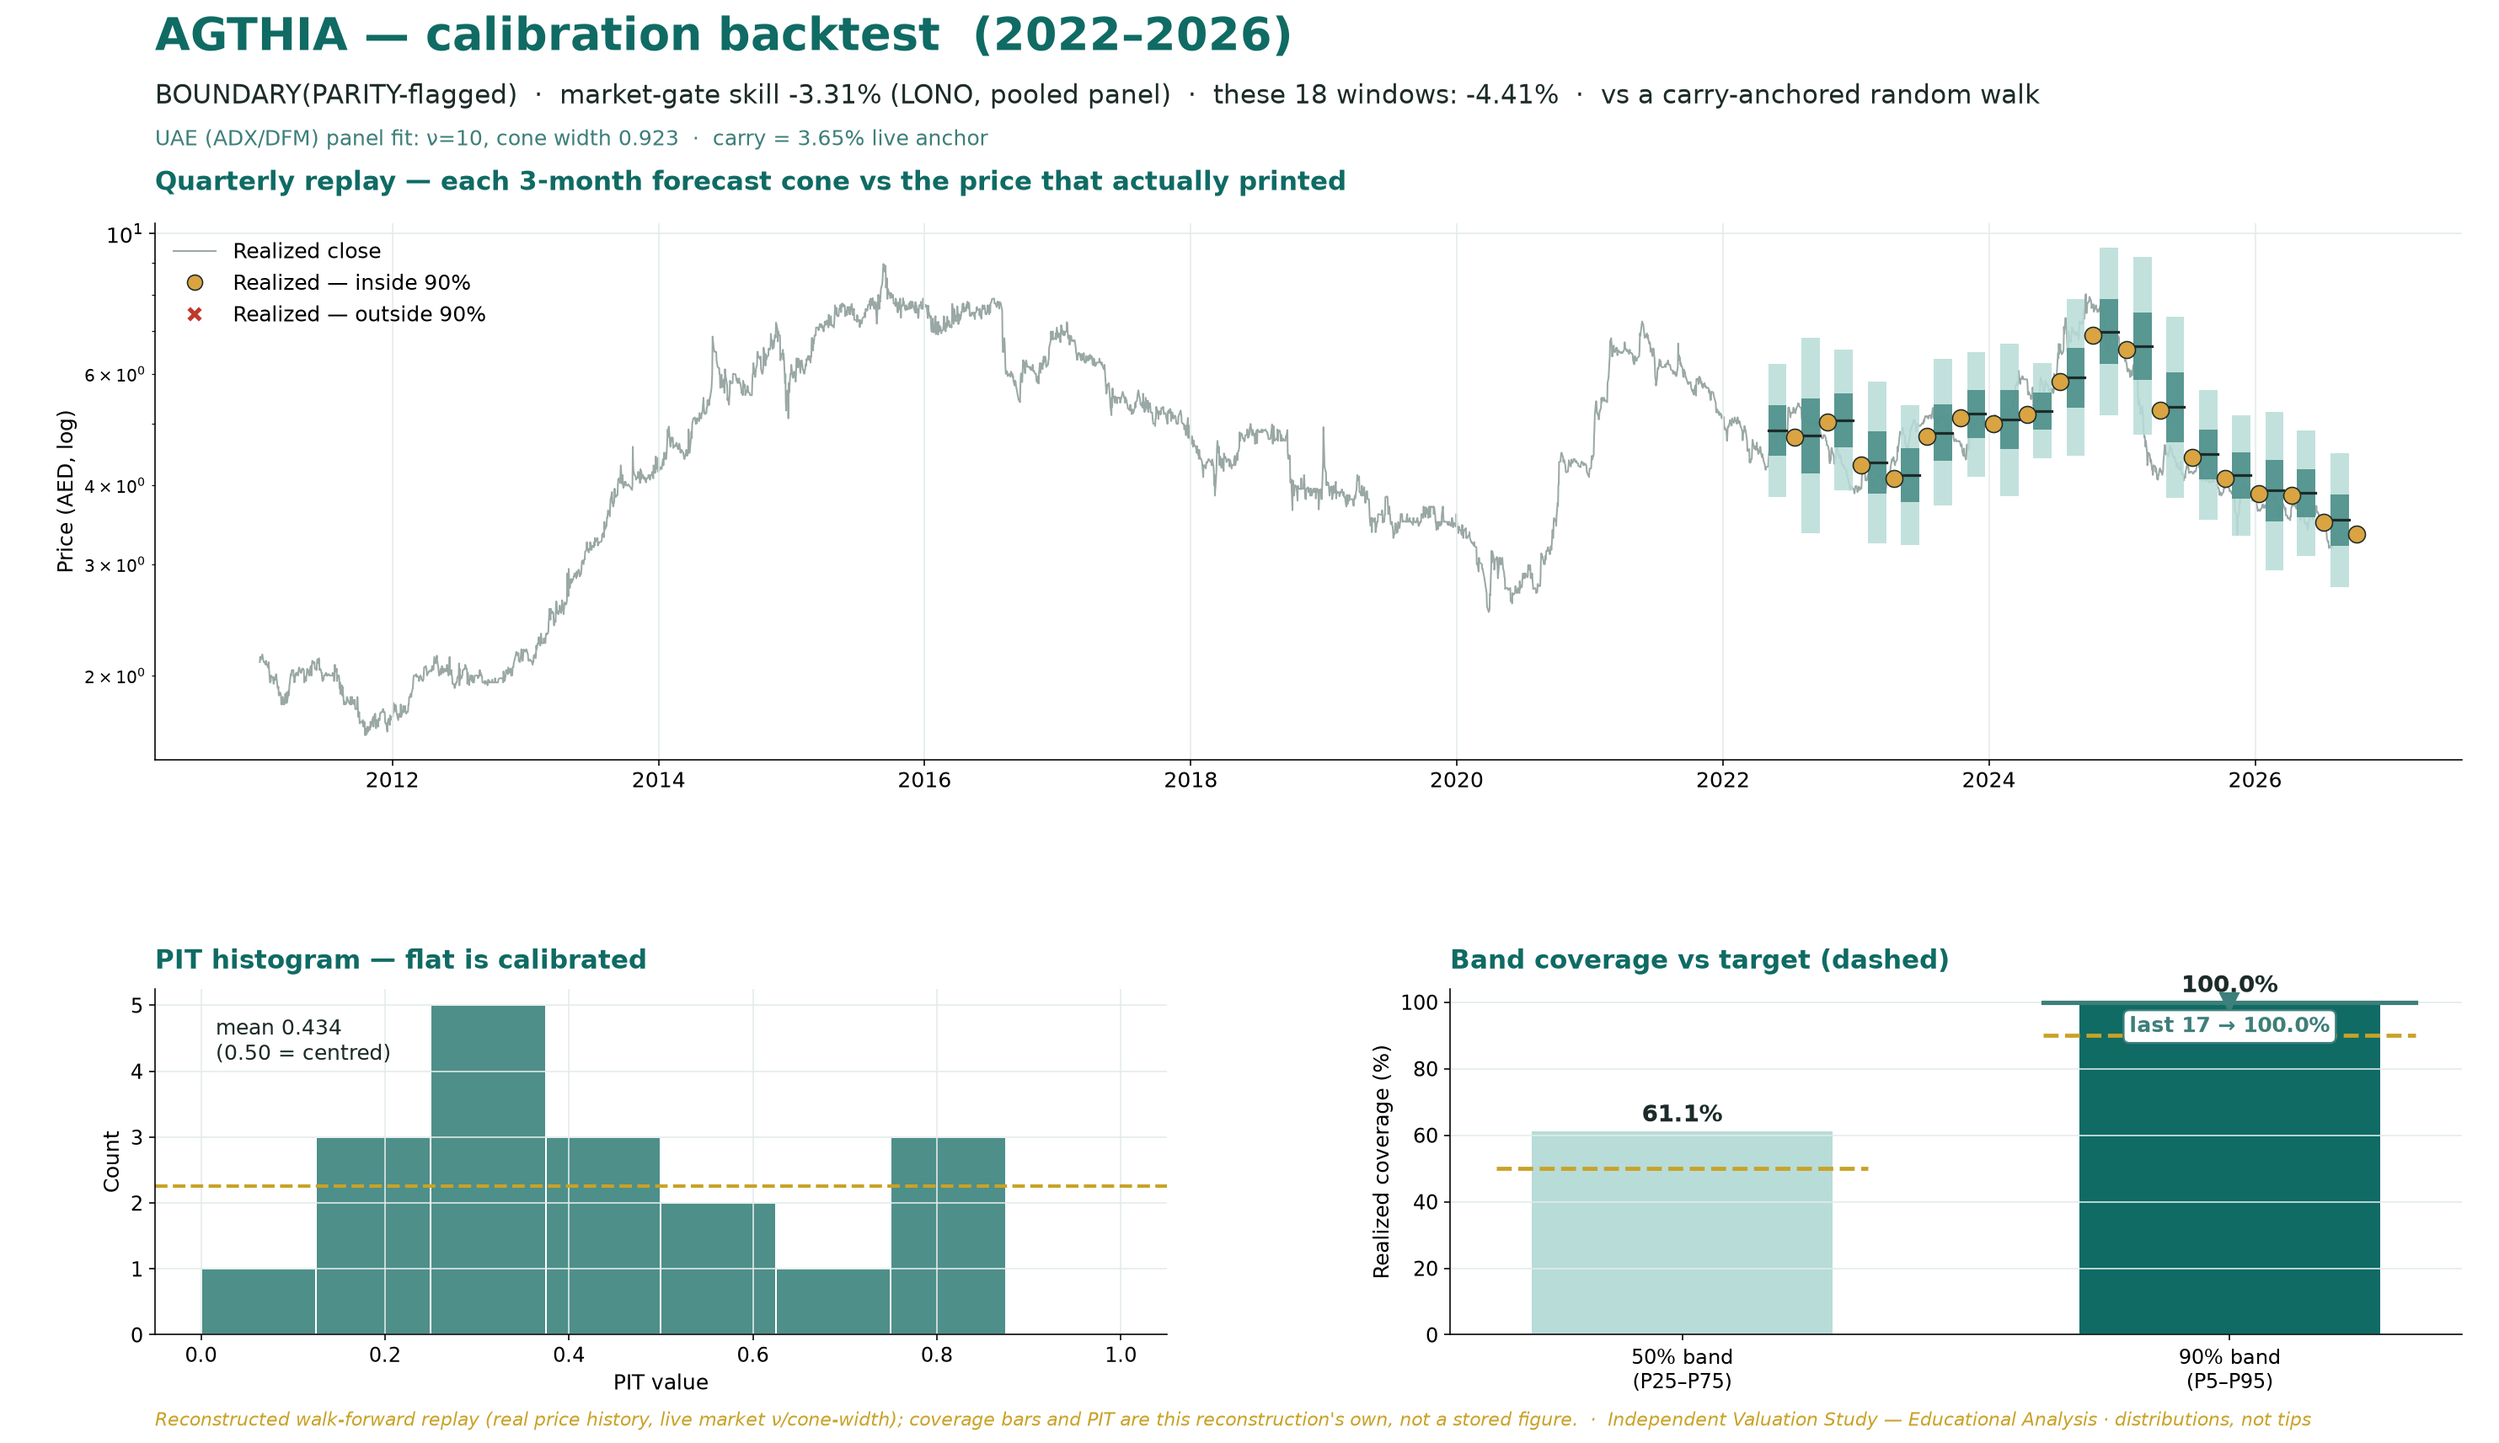
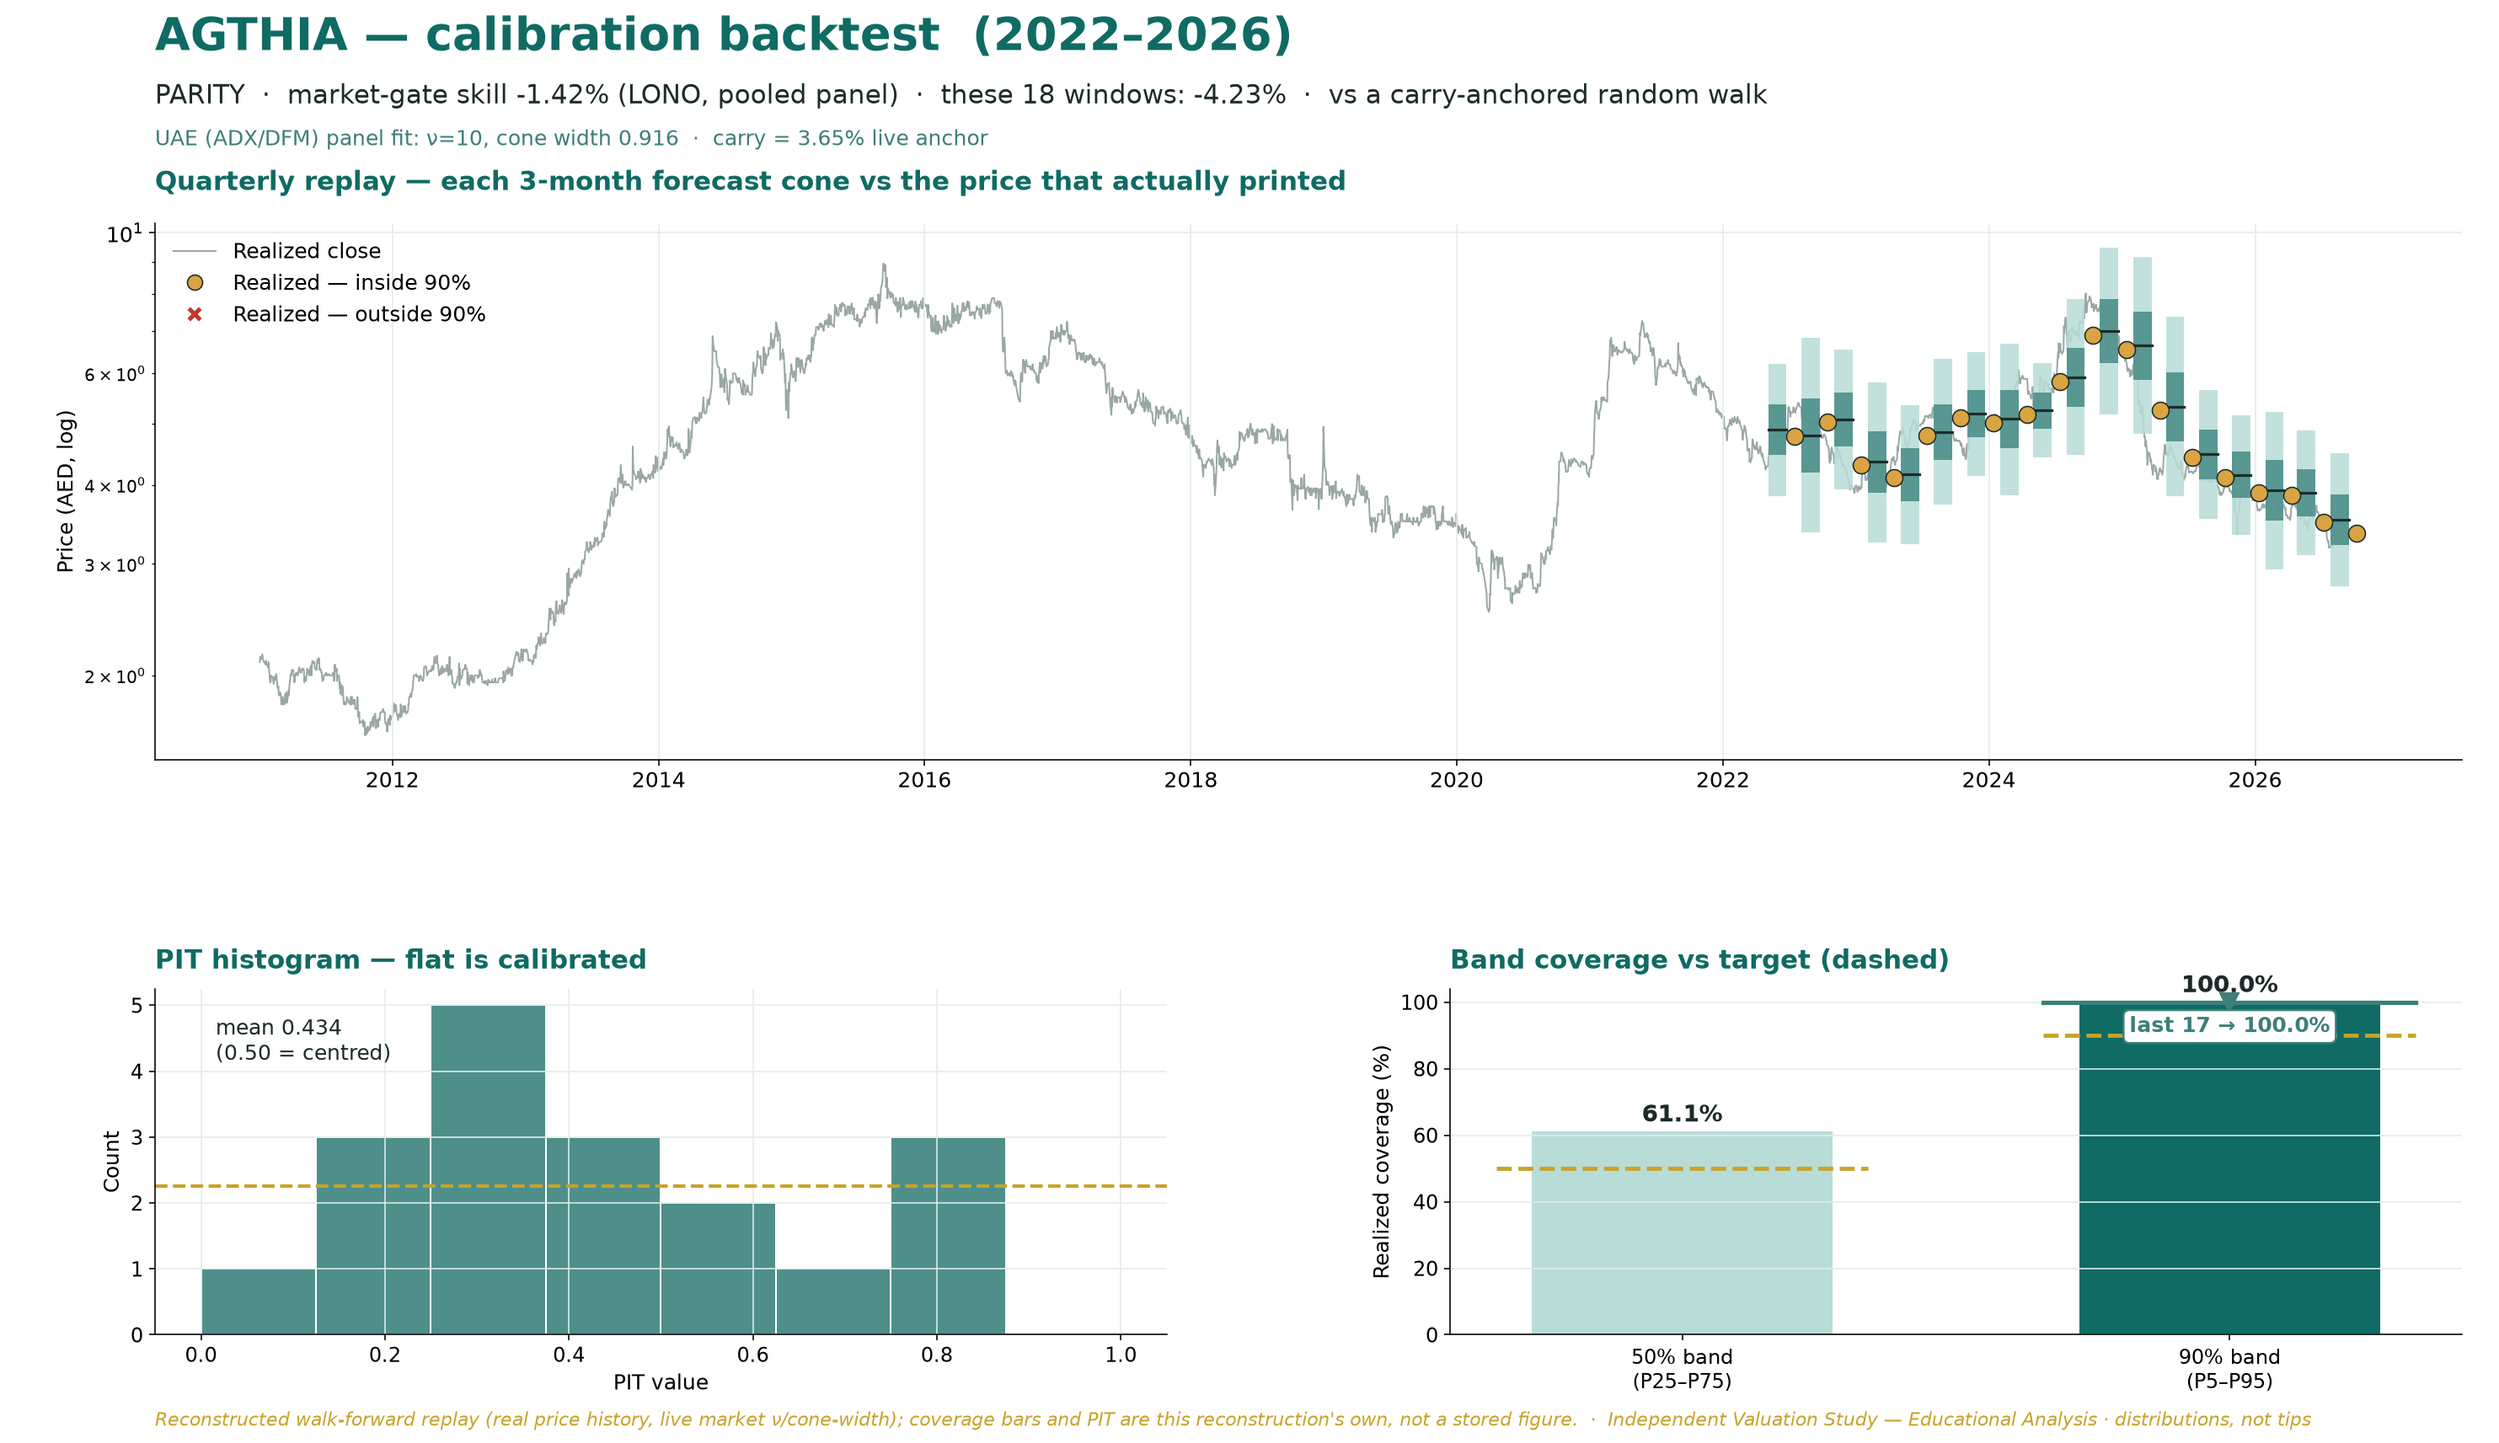
Regenerate the AGTHIA calibration panel against the applied AE verdicts (#242)
The panel shipped in #236 was rendered before the unattended pipeline applied
AE's material calibration change on the merge (4799423d / 2e154c7b, R-CAL-01),
so the live PNG asserts a verdict the repo has already superseded. Reading a
stale verdict off a published artifact is exactly the silence R-CAL-01 exists
to attack, so it is regenerated rather than left to the next cycle. Same class
as the ADIBUAE #229 -> #231 follow-up.

Header: AGTHIA BOUNDARY(PARITY-flagged) -> PARITY, on its own 20 new sessions
(skill -0.0331 -> -0.0142). The pooled AE width_cal moved 0.923 -> 0.916, which
moves these-windows chart skill -4.41 -> -4.23. The chart itself is otherwise
unchanged: same 18 post-break windows, cov90 100.0%, cov50 61.1%, PIT mean
0.434, span 2022-2026.

THE CONE IS DELIBERATELY NOT RE-STRUCK. The published cycle-3 cohort was struck
on width_cal 0.923; the live fit is 0.916, a -0.76% move in the published 90%
band against a 5% tolerance -- not material. More importantly a LEDGER row is a
frozen commitment held to maturity: re-striking it to chase an immaterial fit
move would revise a claim after the fact, and re-striking only the displayed
cone would desynchronise it from the cycle-3 row struck the same day. spot,
dist, hz, touch, levels, tech, asof, fair{} and the slider constants are all
untouched -- assets/data.js is byte-identical, so its cache-buster is left as
main has it.

Only the calibration-PNG cache-buster in ledger.html is bumped, so a reader
[…]

Changed region(s): [[0.062, 0.0619, 0.8065, 0.0928]]

diff --git a/ledger.html b/ledger.html
@@ -771,11 +771,11 @@ tabPanels.innerHTML = `<div class="tab-panel active" id="panel-all">
   ${cohortChartBlock(t, LEDGER.filter(r=>r.instrument===t))}
   ${CAL_UNTESTED.has(t) ? CALIB_UNTESTED_BANNER + `<h3 style="font-size:var(--fs-h3);margin:24px 0 4px">What this forecast IS validated on</h3>
   <p class="muted" style="margin:0 0 12px;max-width:760px">There is no name-level backtest for this stock — it has not been listed long enough to have one. So instead of a backtest it does not have, here is the evidence it actually rests on: why the test cannot be run, what the market panel behind the cone scored, and where this stock sits relative to that panel. Methodology transparency; it does not count toward the live score above.</p>
-  <div class="card bt-fig"><img alt="${t} — why there is no name-level calibration, what the cone is validated on, and how the UAE market panel scored" src="assets/calibration_${t}.png?v=20260824agthia"></div>` : ``}
+  <div class="card bt-fig"><img alt="${t} — why there is no name-level calibration, what the cone is validated on, and how the UAE market panel scored" src="assets/calibration_${t}.png?v=20260824agthia2"></div>` : ``}
   ${HAS_BACKTEST.has(t) ? `<h3 style="font-size:var(--fs-h3);margin:24px 0 4px">Calibration backtest</h3>
   <p class="muted" style="margin:0 0 12px;max-width:760px">The same model replayed across ${t}’s full usable history — every non-overlapping quarter back to its market’s last structural break. Each quarter’s 3-month forecast cone against the price that actually printed, the PIT histogram (flat = well-calibrated), and how often each band actually held. Where the most recent stretch diverges from the long-run record, the panel says so in red. Methodology validation; it does not count toward the live score above.</p>
   ${CAL_FAIL.has(t) && !BANNER_BAKED.has(t) ? CALIB_FAIL_BANNER : (CAL_MATCH.has(t) ? CALIB_MATCH_BANNER : ``)}
-  <div class="card bt-fig"><img alt="${t} calibration backtest — quarterly cone replay, PIT histogram, and band coverage vs target" src="assets/calibration_${t}.png?v=20260824agthia"></div>
+  <div class="card bt-fig"><img alt="${t} calibration backtest — quarterly cone replay, PIT histogram, and band coverage vs target" src="assets/calibration_${t}.png?v=20260824agthia2"></div>
   <div style="margin:20px 0 8px;padding-top:20px;border-top:1px solid var(--line,#dce4e2)">
     <p class="muted" style="font-size:var(--fs-small);margin:0 0 10px"><b style="color:var(--ink)">Reading this panel:</b></p>
     <div style="display:grid;grid-template-columns:repeat(auto-fit,minmax(220px,1fr));gap:16px">
